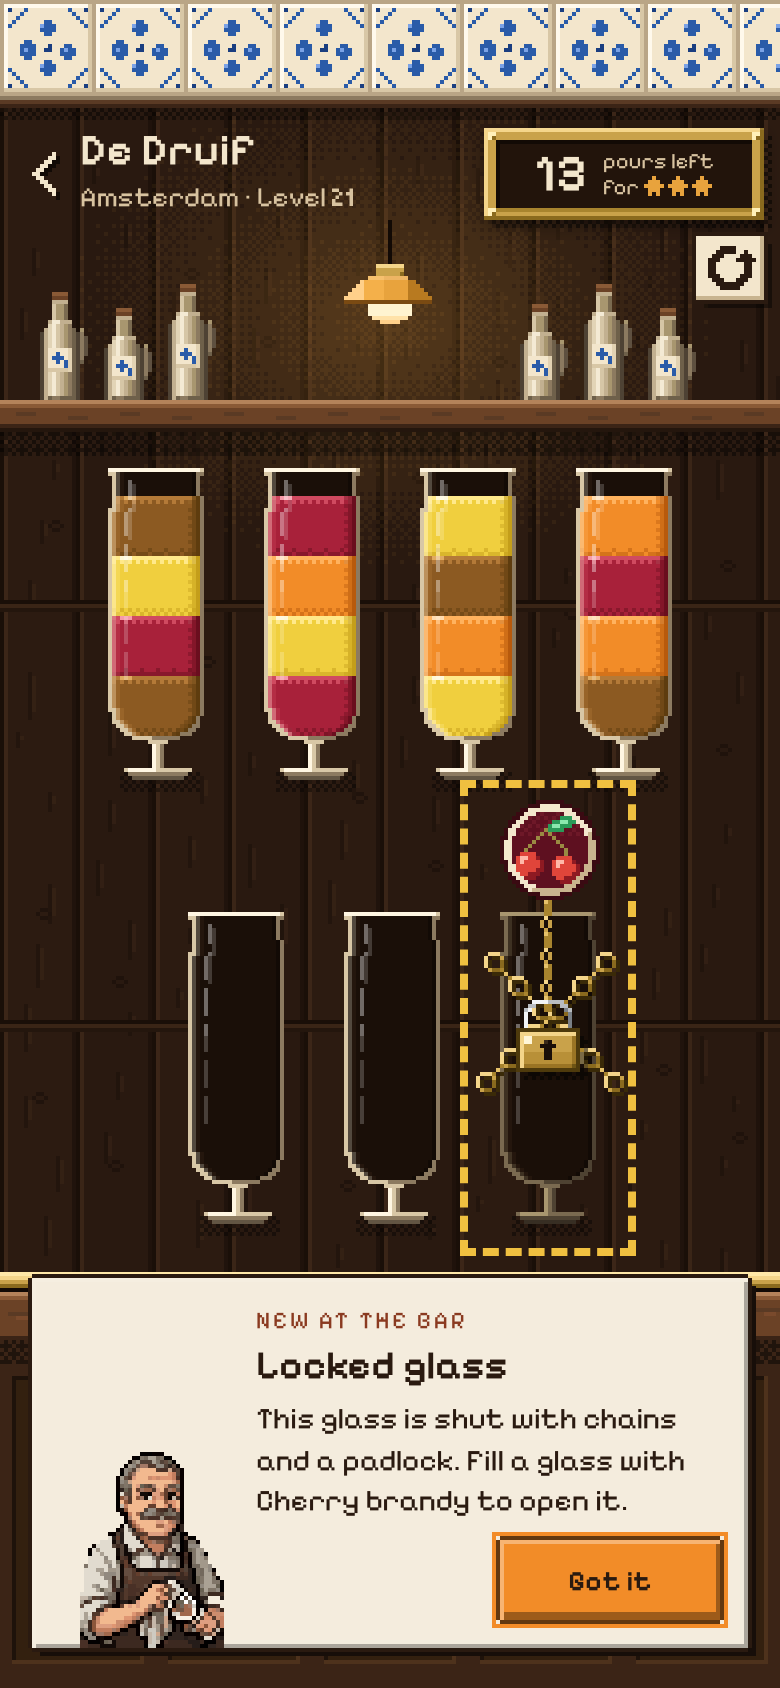
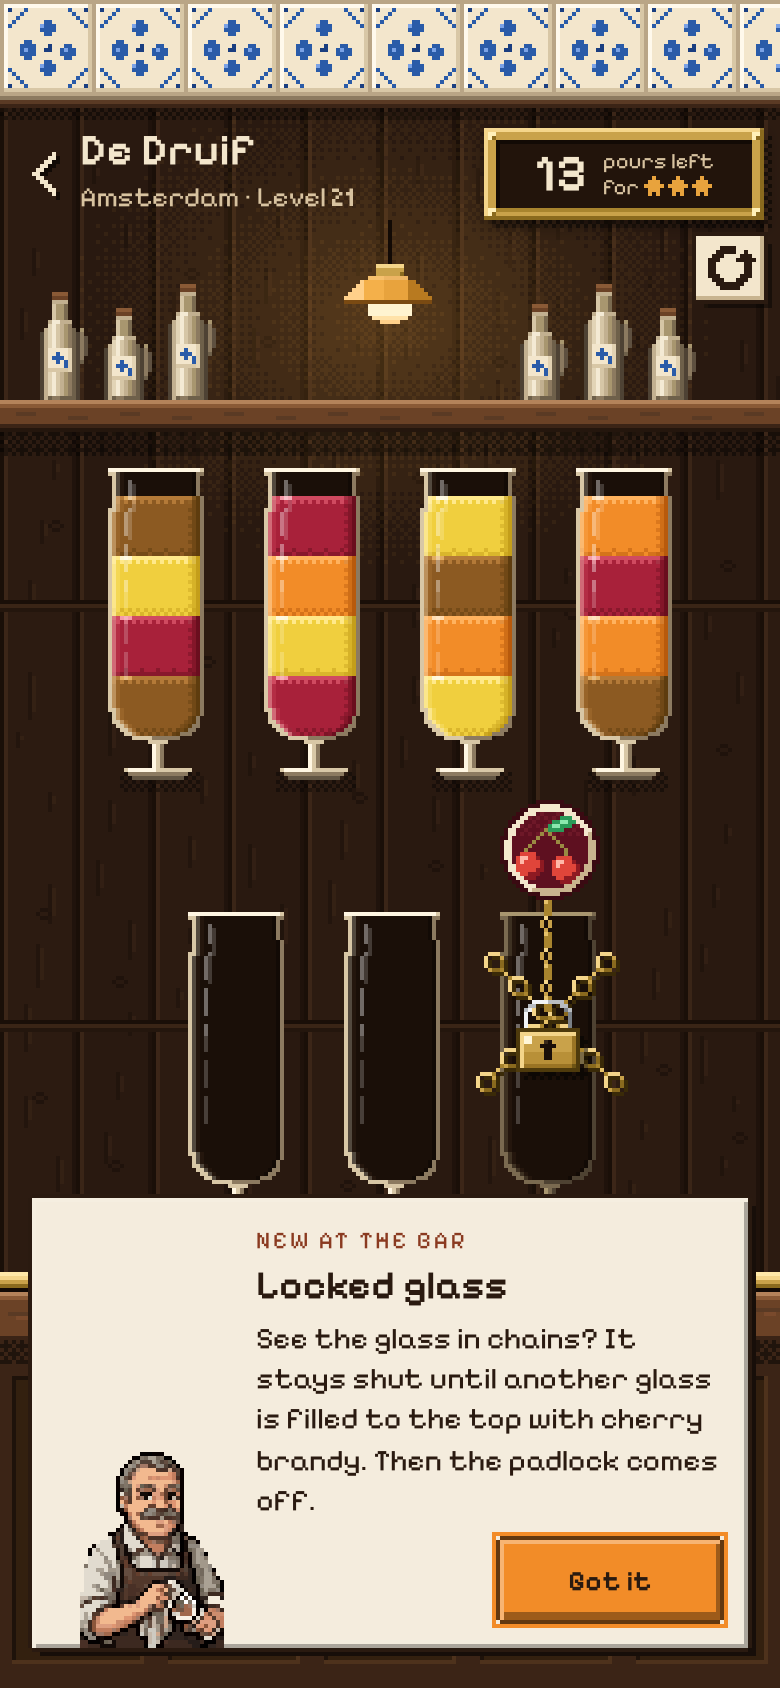
Rule cards: no outline, clearer words
The bartender now points at the glass by its look ('See the glass in
chains?'), says what keeps it shut and what opens it, and calls it a 'New
look' in later cities. The dashed outline is gone.

Changed region(s): [[0.0308, 0.4621, 0.9846, 0.8934]]

diff --git a/apps/web/src/rules-intro.ts b/apps/web/src/rules-intro.ts
@@ -6,30 +6,34 @@ import { getLevel } from './levels.js';
 /** The special glasses a level can have (docs/spec/rules.md). */
 export type Rule = 'locked' | 'only' | 'hidden';
 
-/** What the bartender says the first time a rule shows up, and which glasses to point at. */
+/** What the bartender says the first time a rule shows up in a city. */
 export interface RuleIntro {
   rule: Rule;
   /** Save key: each rule is introduced once per city, since every city draws it its own way. */
   key: string;
+  /** "New at the bar" the first time; "New look" when the rule is known from another city. */
+  kicker: string;
   title: string;
   text: string;
-  glasses: number[];
 }
 
-/** How each city draws a rule, by the blocker art named in its theme. */
-const LOOKS: Record<string, string> = {
-  'chains-padlock': 'chains and a padlock',
-  'locked-tap': 'a locked tap',
-  'deco-door': 'an Art Deco door',
-  shutter: 'a shutter',
-  'stoneware-jug': 'a stoneware jug',
-  'pewter-tankard': 'a pewter tankard',
-  'frosted-deco-glass': 'frosted glass',
-  'unlabelled-bottle': 'an unlabelled bottle',
-  'kruik-tag': 'a tag',
-  'reserved-beer-mat': 'a reserved beer mat',
-  'velvet-rope': 'a velvet rope',
-  'bottle-keep': 'a bottle-keep tag',
+/**
+ * How each city's art for a rule (named in its theme's `blockers`) is talked about: the glass it
+ * marks, and for a locked glass, what happens when it opens.
+ */
+const LOOKS: Record<string, { glass: string; opens?: string }> = {
+  'chains-padlock': { glass: 'the glass in chains', opens: 'the padlock comes off' },
+  'locked-tap': { glass: 'the glass with the locked tap', opens: 'the tap unlocks' },
+  'deco-door': { glass: 'the glass behind the Art Deco door', opens: 'the door swings open' },
+  shutter: { glass: 'the glass behind the shutter', opens: 'the shutter goes up' },
+  'stoneware-jug': { glass: 'stoneware jugs' },
+  'pewter-tankard': { glass: 'pewter tankards' },
+  'frosted-deco-glass': { glass: 'frosted glass' },
+  'unlabelled-bottle': { glass: 'unlabelled bottles' },
+  'kruik-tag': { glass: 'the glass with the tag' },
+  'reserved-beer-mat': { glass: 'the glass on the reserved beer mat' },
+  'velvet-rope': { glass: 'the glass behind the velvet rope' },
+  'bottle-keep': { glass: 'the glass with the bottle-keep tag' },
 };
 
 const TITLES: Record<Rule, string> = { locked: 'Locked glass', only: 'One drink only', hidden: 'Hidden drinks' };
@@ -61,7 +65,7 @@ export function rulesToIntroduce(p: Progress, theme: Theme, bottles: readonly Bo
   const won = Object.keys(p.data.levels)
     .map((n) => getLevel(Number(n)))
     .filter((e) => e !== undefined);
-  const drink = (id?: string) => theme.drinks.find((d) => d.id === id)?.name ?? 'that drink';
+  const drink = (id?: string) => theme.drinks.find((d) => d.id === id)?.name.toLowerCase() ?? 'that drink';
   return rulesIn(bottles).flatMap(({ rule, glasses }) => {
     const key = `rule:${theme.id}:${rule}`;
     const metHere = won.some((e) => e.pack.city === theme.id && rulesIn(e.level.bottles).some((r) => r.rule === rule));
@@ -69,21 +73,14 @@ export function rulesToIntroduce(p: Progress, theme: Theme, bottles: readonly Bo
     const metBefore =
       known.some((k) => k.startsWith('rule:') && k.endsWith(`:${rule}`)) ||
       won.some((e) => rulesIn(e.level.bottles).some((r) => r.rule === rule));
-    const look = LOOKS[theme.blockers[rule]] ?? 'a sign';
+    const look = LOOKS[theme.blockers[rule]] ?? { glass: 'the marked glass', opens: 'it opens' };
     const first = bottles[glasses[0]!]!;
-    const how =
+    const text =
       rule === 'locked'
-        ? `Fill a glass with ${drink(first.lockedUntil)} to open it.`
+        ? `See ${look.glass}? It stays shut until another glass is filled to the top with ${drink(first.lockedUntil)}. Then ${look.opens ?? 'it opens'}.`
         : rule === 'only'
-          ? `It only takes ${drink(first.only)}.`
-          : 'Each one shows when it reaches the top.';
-    const what =
-      rule === 'locked'
-        ? `This glass is shut with ${look}.`
-        : rule === 'only'
-          ? `This glass has ${look}.`
-          : `Some drinks are hidden under ${look}.`;
-    const text = metBefore ? `Same rule, new look: ${look}. ${how}` : `${what} ${how}`;
-    return [{ rule, key, title: TITLES[rule], text, glasses }];
+          ? `See ${look.glass}? It only takes ${drink(first.only)}: nothing else will pour in.`
+          : `Some drinks are hidden under ${look.glass}. You'll see each one once the drinks above it are poured off.`;
+    return [{ rule, key, kicker: metBefore ? 'New look' : 'New at the bar', title: TITLES[rule], text }];
   });
 }

diff --git a/apps/web/test/rules-intro.test.ts b/apps/web/test/rules-intro.test.ts
@@ -19,8 +19,15 @@ describe('the bartender introduces special glasses', () => {
       { capacity: 4, units: [unit(d, true), unit(d)] },
       { capacity: 4, units: [] },
     ]);
-    expect(intro).toMatchObject({ rule: 'hidden', key: 'rule:london:hidden', title: 'Hidden drinks', glasses: [0] });
-    expect(intro!.text).toBe('Some drinks are hidden under a pewter tankard. Each one shows when it reaches the top.');
+    expect(intro).toMatchObject({
+      rule: 'hidden',
+      key: 'rule:london:hidden',
+      kicker: 'New at the bar',
+      title: 'Hidden drinks',
+    });
+    expect(intro!.text).toBe(
+      "Some drinks are hidden under pewter tankards. You'll see each one once the drinks above it are poured off.",
+    );
   });
 
   it('names the drink an only-glass takes, and says it once per city', () => {
@@ -28,13 +35,16 @@ describe('the bartender introduces special glasses', () => {
     const drink = ny.drinks[1]!;
     const p = fresh();
     const level = [{ capacity: 4, units: [], only: drink.id }];
-    expect(rulesToIntroduce(p, ny, level)[0]!.text).toBe(`This glass has a velvet rope. It only takes ${drink.name}.`);
+    const name = drink.name.toLowerCase();
+    expect(rulesToIntroduce(p, ny, level)[0]!.text).toBe(
+      `See the glass behind the velvet rope? It only takes ${name}: nothing else will pour in.`,
+    );
     p.markIntro('announced', 'rule:newyork:only');
     expect(rulesToIntroduce(p, ny, level)).toEqual([]);
-    // Known from New York, new in Tokyo: the short version.
+    // Known from New York, new in Tokyo: the same rule, with Tokyo's look.
     const tokyo = getTheme('tokyo');
-    expect(rulesToIntroduce(p, tokyo, [{ capacity: 4, units: [], only: tokyo.drinks[0]!.id }])[0]!.text).toMatch(
-      /^Same rule, new look: a bottle-keep tag\. It only takes /,
-    );
+    const [inTokyo] = rulesToIntroduce(p, tokyo, [{ capacity: 4, units: [], only: tokyo.drinks[0]!.id }]);
+    expect(inTokyo!.kicker).toBe('New look');
+    expect(inTokyo!.text).toMatch(/^See the glass with the bottle-keep tag\? It only takes /);
   });
 });

diff --git a/apps/web/e2e/bartender-rules.spec.ts b/apps/web/e2e/bartender-rules.spec.ts
@@ -6,26 +6,27 @@ test('the bartender explains a locked glass the first time one shows up, then ne
   await open(page, '#/level/21');
   const card = page.getByRole('dialog', { name: 'Locked glass' });
   await expect(card).toBeVisible();
+  await expect(card).toContainText('New at the bar');
   await expect(card).toContainText(
-    'This glass is shut with chains and a padlock. Fill a glass with Cherry brandy to open it.',
+    'See the glass in chains? It stays shut until another glass is filled to the top with cherry brandy. Then the padlock comes off.',
   );
-  await expect(page.locator('.lv-glass.is-taught')).toHaveCount(1);
   await page.waitForTimeout(300);
   await shot(page, 'bartender-rules/locked-amsterdam');
   await card.getByRole('button', { name: 'Got it' }).click();
   await expect(page.getByRole('dialog')).toHaveCount(0);
-  await expect(page.locator('.lv-glass.is-taught')).toHaveCount(0);
   await open(page, '#/level/22');
   await open(page, '#/level/21');
   await expect(page.getByRole('dialog')).toHaveCount(0);
 });
 
-test('in a new city the same rule gets a short "new look" note', async ({ page }) => {
+test("in a new city the same rule is explained again, with the city's look", async ({ page }) => {
   // Everything up to London's first locked glass won: the rule is known, London's look isn't.
   await played(page, 116);
   await open(page, '#/level/116');
   const card = page.getByRole('dialog', { name: 'Locked glass' });
-  await expect(card).toContainText('Same rule, new look: a locked tap.');
+  await expect(card).toContainText('New look');
+  await expect(card).toContainText('See the glass with the locked tap?');
+  await expect(card).toContainText('Then the tap unlocks.');
   await page.waitForTimeout(300);
   await shot(page, 'bartender-rules/locked-london');
 });

diff --git a/apps/web/src/level/screen.ts b/apps/web/src/level/screen.ts
@@ -740,21 +740,17 @@ export class LevelScreen {
 
   /**
    * The bartender explains a special glass the player hasn't met (rules-intro.ts), one card at a
-   * time, at the bottom of the screen while the glasses it's about are marked on the bar.
+   * time, at the bottom of the screen so the glasses stay in view.
    */
   private showRules(queue: RuleIntro[]): void {
     const [intro, ...rest] = queue;
     if (!intro || this.game.status === 'won') return;
-    const marked = intro.glasses
-      .map((i) => this.el.querySelector<HTMLElement>(`.lv-glass[data-index="${i}"]`))
-      .filter((g) => g !== null);
-    marked.forEach((g) => g.classList.add('is-taught'));
     const sheet = document.createElement('div');
     sheet.className = 'sheet-backdrop lv-rule';
     sheet.innerHTML = `
       <section class="lv-rule-card px-panel" role="dialog" aria-modal="true" aria-labelledby="rule-title" aria-describedby="rule-text">
         ${bartenderImg(this.theme.id, 'neutral', 'rule-barkeep')}
-        <div class="rule-kicker">New at the bar</div>
+        <div class="rule-kicker">${esc(intro.kicker)}</div>
         <h2 class="rule-title" id="rule-title">${esc(intro.title)}</h2>
         <p class="rule-text" id="rule-text">${esc(intro.text)}</p>
         <button class="btn btn-primary rule-ok">Got it</button>
@@ -762,7 +758,6 @@ export class LevelScreen {
     this.el.appendChild(sheet);
     sheet.querySelector('.rule-ok')!.addEventListener('click', () => {
       sheet.remove();
-      marked.forEach((g) => g.classList.remove('is-taught'));
       this.opts.onRuleSeen?.(intro.key);
       this.showRules(rest);
     });

diff --git a/apps/web/src/style.css b/apps/web/src/style.css
@@ -2897,13 +2897,12 @@ input {
 }
 
 /* A special glass the player hasn't met: the bartender explains it in a card at the bottom
-   (over the boosters), with no dim, while the glasses it's about are marked on the bar. */
+   (over the boosters), with no dim, so the glasses stay in view. */
 .lv-rule {
   align-items: flex-end;
   justify-content: center;
   padding: 0 16px calc(20px - var(--stick-b, 0px));
-  /* Above the marked glasses (5), so the card is never drawn over. */
-  z-index: 6;
+  z-index: 4;
 }
 .lv-rule::before {
   background: none !important;
@@ -2944,21 +2943,4 @@ input {
   align-self: flex-end;
   min-width: 110px;
   height: 40px;
-}
-.lv-glass.is-taught {
-  z-index: 5;
-  pointer-events: none;
-  outline: 4px dashed #f0c040;
-  outline-offset: 6px;
-  animation: rule-blink 1s steps(2) infinite;
-}
-@keyframes rule-blink {
-  50% {
-    outline-color: #fff4c0;
-  }
-}
-@media (prefers-reduced-motion: reduce) {
-  .lv-glass.is-taught {
-    animation: none;
-  }
 }
